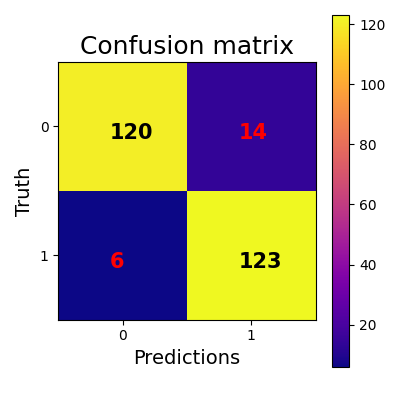
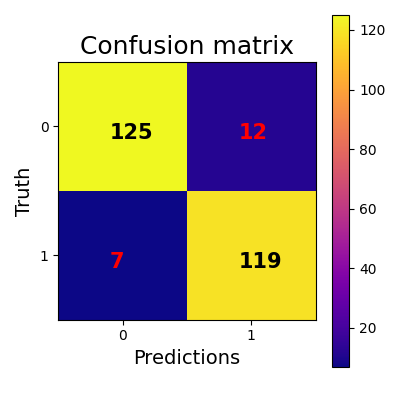
Version 1.1 -- max accuracy 0.92

diff --git a/Scripts/Main.py b/Scripts/Main.py
@@ -1,17 +1,12 @@
-import pandas as pd
-import numpy as np
-from sklearn import preprocessing
-import requests
-from sklearn.model_selection import train_test_split
 import os
+
+import pandas as pd
+from sklearn import preprocessing
+from sklearn.model_selection import train_test_split
+
 os.environ['TF_ENABLE_ONEDNN_OPTS'] = '0' #stop the tensorflow warnings
-import tensorflow as tf
-from tensorflow import keras
 from keras.models import Sequential
 from keras.layers import Dense
-from keras import layers
-from tensorflow.keras.utils import plot_model
-
 
 #
 # url = 'https://drive.google.com/uc?export=download&id=1MOZaQ5vmUu6ChdfTva-qjZ__UAiOmhh9'  #1461 house inquiries
@@ -69,12 +64,14 @@ model.compile(optimizer='adam',
 hist = model.fit(
     X_train,
     Y_train,
-    batch_size = 64,  # number of samples per gradient update (default 32), size of mini-batch.
+    batch_size = 2,  # number of samples per gradient update (default 32), size of mini-batch.
     epochs=100,  #  number of epochs to train the model
 
     verbose = 1, # 1 for progress bar, 2 for each row for an epoch
     validation_data=(X_val, Y_val))
-
+#improved accuracy to 0.91 32 mini batch and 300 epochs
+#using the adam optimizer still works best by far
+#max accuracy obtained is still 0.92
 
 
 

diff --git a/Scripts/EvaluationDuringTraining.py b/Scripts/EvaluationDuringTraining.py
@@ -1,5 +1,5 @@
 import Main
-
+import matplotlib.pyplot as plt
 
 fig, (ax1, ax2) = plt.subplots(1, 2, figsize=(13,5))
 fig.suptitle('Loss and accuracy during training')
